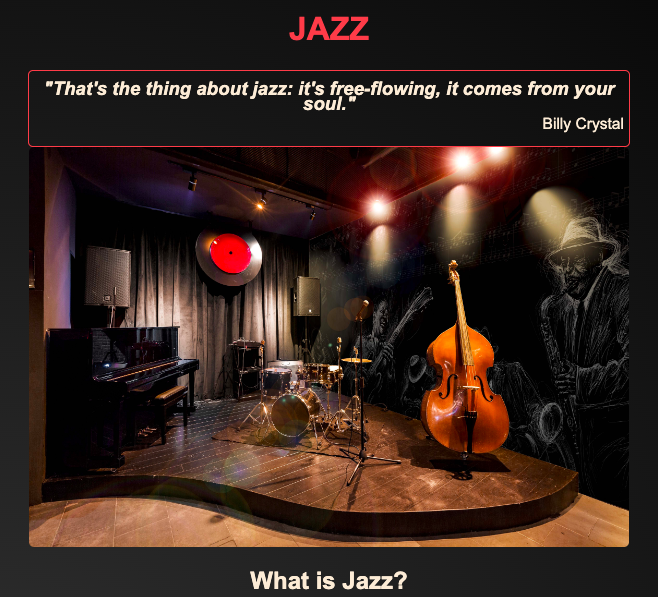
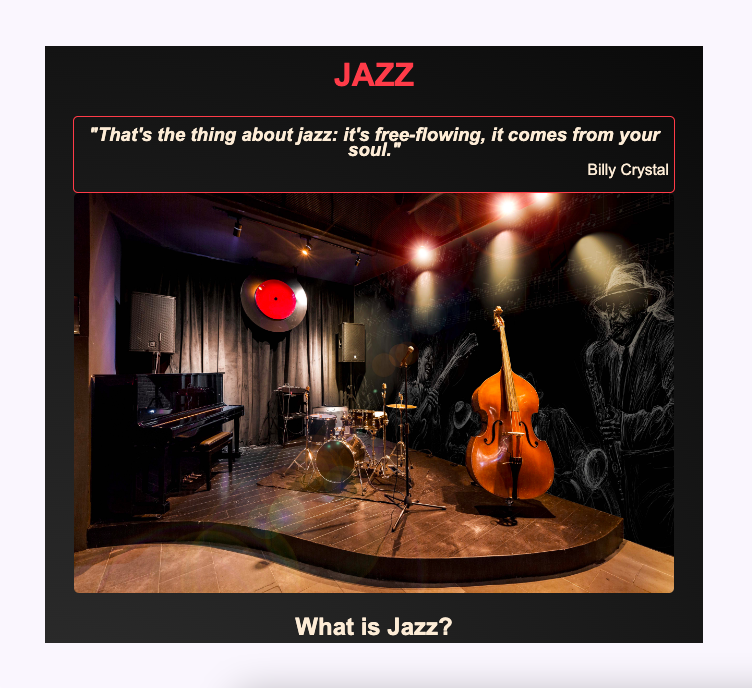
added work.html content and css

diff --git a/work.html b/work.html
@@ -63,6 +63,61 @@
         </div>
       </div>
     </nav>
+    <div class="container">
+      <div class="about-me-hero">
+        <h2 class="mb-5">Take a look at what I've been working on!</h2>
+        <div class="row">
+          <div class="col-md-6">
+            <div class="about-me-description">
+              <img
+                src="/images/jazz.png"
+                class="img-fluid rounded mb-2"
+                alt=""
+              />
+              <h3 class="text-center m-1">Jazz Project</h3>
+              <p class="text-center m-1 mb-5">Built with HTML and CSS</p>
+            </div>
+          </div>
+          <div class="col-md-6">
+            <div class="about-me-description">
+              <img
+                src="/images/myweather.png"
+                class="img-fluid rounded mb-2"
+                alt=""
+              />
+              <h3 class="text-center m-1">Weather App</h3>
+              <p class="text-center m-1 mb-5">
+                Built with HTML, CSS, React and Javascript
+              </p>
+            </div>
+          </div>
+          <div class="col-md-6">
+            <div class="about-me-description">
+              <img
+                src="/images/dictionary.png"
+                class="img-fluid rounded mb-2"
+                alt=""
+              />
+              <h3 class="text-center m-1">Dictionary App</h3>
+              <p class="text-center m-1 mb-5">
+                Built with HTML, CSS with React
+              </p>
+            </div>
+          </div>
+          <div class="col-md-6">
+            <div class="about-me-description">
+              <img
+                src="/images/translate.png"
+                class="img-fluid rounded mb-2"
+                alt=""
+              />
+              <h3 class="text-center m-1">Translation App</h3>
+              <p class="text-center m-1">Built with HTML, CSS with React</p>
+            </div>
+          </div>
+        </div>
+      </div>
+    </div>
     <div class="contact-box row d-flex justify-content-between text-center">
       <div class="col">
         <h2 class="">Work Inquiry</h2>

diff --git a/source/portfolio.css b/source/portfolio.css
@@ -21,6 +21,9 @@ h2 {
   font-size: 64px;
   font-family: var(--heading-font-family);
 }
+h3 {
+  line-height: 1.5;
+}
 h6 {
   line-height: 30px;
 
